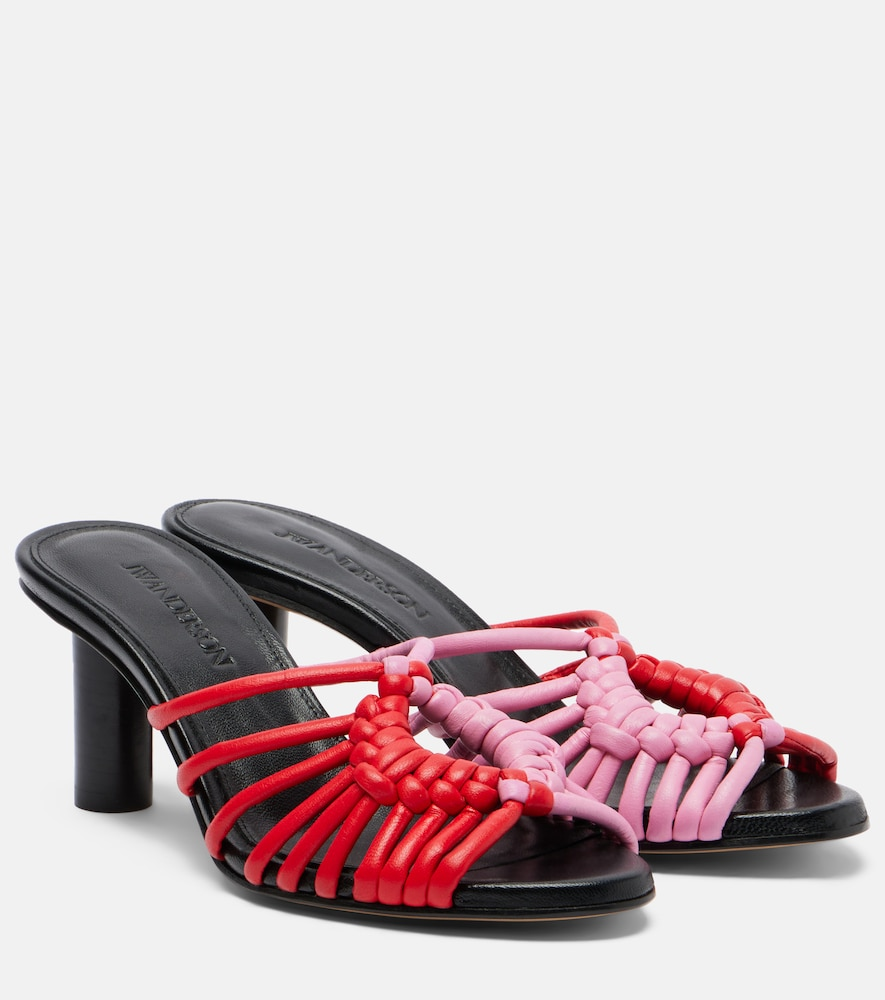
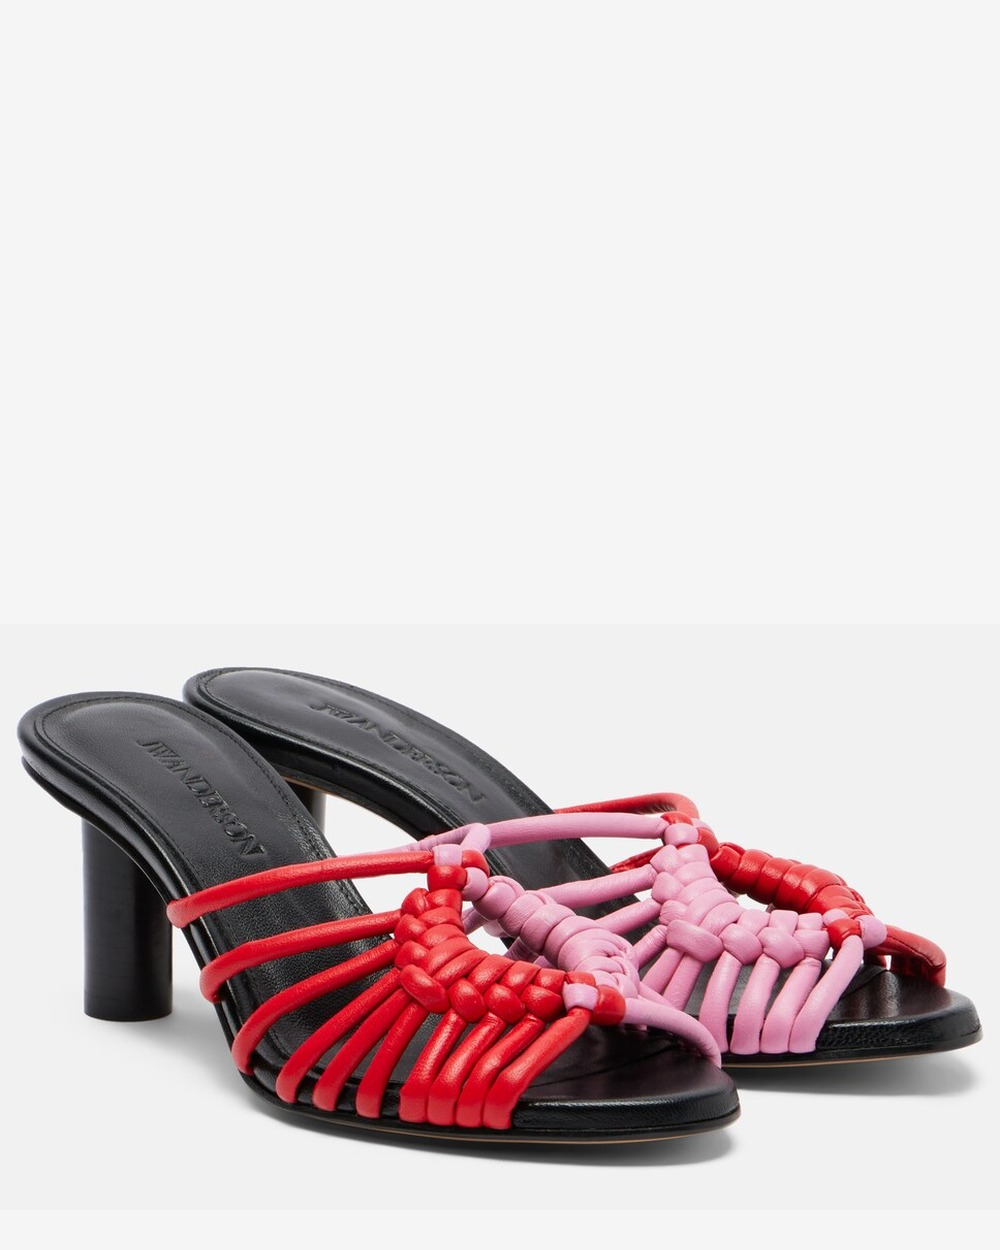
Refresh /khiteri imagery and add Cult Gaia, Re/Done, and Manolos.
Recrop the JW Anderson sandals so the mood board no longer clips them, and pull three favorite pieces into the August edit.

Changed region(s): [[0.0, 0.496, 1.0, 0.961], [0.0915, 0.806, 0.1831, 0.837]]

diff --git a/lib/khiteris-edit.ts b/lib/khiteris-edit.ts
@@ -229,8 +229,8 @@ export const KHITERIS_EDIT_AUGUST_2026: KhiterisEditConfig = {
         alt: "Dissh Cora Natural Midi Linen Dress",
       },
       {
-        src: "/khiteri/fleur-lily.jpg",
-        alt: "Fleur du Mal Lily Babydoll Dress Ivory",
+        src: "/khiteri/cult-gaia-sarah-green.jpg",
+        alt: "Cult Gaia Sarah Halter Long Top in Green Linen",
       },
       {
         src: "/khiteri/attico-barrel-sweats.jpg",
@@ -269,6 +269,18 @@ export const KHITERIS_EDIT_AUGUST_2026: KhiterisEditConfig = {
     },
     {
       id: "03",
+      name: "Sarah Halter Long Top",
+      composition: "100% Linen",
+      price: "$433",
+      brand: "Cult Gaia",
+      href: "https://click.linksynergy.com/link?id=*8b0zWDyXo0&offerid=1949172.507459433874613666330777&type=15&murl=https%3A%2F%2Fshop.simon.com%2Fproducts%2Fcult-gaia-sarah-halter-long-top-in-green-linen%3Fvariant%3D42569289334844",
+      image: {
+        src: "/khiteri/cult-gaia-sarah-green.jpg",
+        alt: "Cult Gaia Sarah Halter Long Top in Green Linen",
+      },
+    },
+    {
+      id: "04",
       name: "Finny White Sleeveless Linen Top",
       composition: "100% Linen",
       price: "$130",
@@ -280,7 +292,7 @@ export const KHITERIS_EDIT_AUGUST_2026: KhiterisEditConfig = {
       },
     },
     {
-      id: "04",
+      id: "05",
       name: "Cotton Jersey Barrel Leg Sweatpants",
       composition: "100% Cotton",
       price: "$590",
@@ -297,7 +309,19 @@ export const KHITERIS_EDIT_AUGUST_2026: KhiterisEditConfig = {
       },
     },
     {
-      id: "05",
+      id: "06",
+      name: "Denim Laced Midi",
+      composition: "98% Cotton, 2% Elastane",
+      price: "$345",
+      brand: "Re/Done",
+      href: "https://shopredone.com/products/denim-laced-midi-indigo",
+      image: {
+        src: "/khiteri/redone-denim-laced-midi.jpg",
+        alt: "Re/Done Denim Laced Midi skirt in Indigo",
+      },
+    },
+    {
+      id: "07",
       name: "Percy Black Silk Long Sleeve Shirt",
       composition: "100% Silk",
       price: "$170",
@@ -309,7 +333,7 @@ export const KHITERIS_EDIT_AUGUST_2026: KhiterisEditConfig = {
       },
     },
     {
-      id: "06",
+      id: "08",
       name: "Pippy Buttermilk Linen Strapless Top",
       composition: "100% Linen",
       price: "$100",
@@ -321,7 +345,7 @@ export const KHITERIS_EDIT_AUGUST_2026: KhiterisEditConfig = {
       },
     },
     {
-      id: "07",
+      id: "09",
       name: "Lily Babydoll Dress",
       composition: "100% Silk",
       price: "$498",
@@ -333,7 +357,7 @@ export const KHITERIS_EDIT_AUGUST_2026: KhiterisEditConfig = {
       },
     },
     {
-      id: "08",
+      id: "10",
       name: "Nama Leather Platform Thong Sandals",
       composition: "Upper: 100% Bovine leather",
       price: "$690",
@@ -346,7 +370,7 @@ export const KHITERIS_EDIT_AUGUST_2026: KhiterisEditConfig = {
       },
     },
     {
-      id: "09",
+      id: "11",
       name: "Plot Woven Leather Sandals",
       composition: "Upper: 100% Lamb Leather",
       price: "$910",
@@ -356,6 +380,19 @@ export const KHITERIS_EDIT_AUGUST_2026: KhiterisEditConfig = {
       image: {
         src: "/khiteri/jw-anderson-plot.jpg",
         alt: "JW Anderson Plot Woven Leather Sandals",
+      },
+    },
+    {
+      id: "12",
+      name: "Sumbasan Embellished Satin Sandals",
+      composition: "Upper: 100% Fabric",
+      price: "$1,150",
+      brand: "Manolo Blahnik",
+      catalogSku: "P01185538",
+      href: "https://click.linksynergy.com/link?id=*8b0zWDyXo0&offerid=2033543.431722355103809981260150&type=15&murl=https%3A%2F%2Fwww.mytheresa.com%2Fus%2Fen%2Fwomen%2Fmanolo-blahnik-sumbasan-embellished-satin-sandals-purple-p01185538%3Ffeed_num%3DP01185538%26feed_des%3DManoloBlahnik%26feed_mwg%3Dshoes",
+      image: {
+        src: "/khiteri/manolo-sumbasan.jpg",
+        alt: "Manolo Blahnik Sumbasan Embellished Satin Sandals",
       },
     },
   ],

diff --git a/app/globals.css b/app/globals.css
@@ -607,7 +607,11 @@
 
 .khiteris-edit__mood-cell--3 {
   grid-column: 1 / -1;
-  aspect-ratio: 16 / 9;
+  aspect-ratio: 3 / 2;
+}
+
+.khiteris-edit__mood-cell--3 img {
+  object-position: center 55%;
 }
 
 .khiteris-edit__mood-caption {
